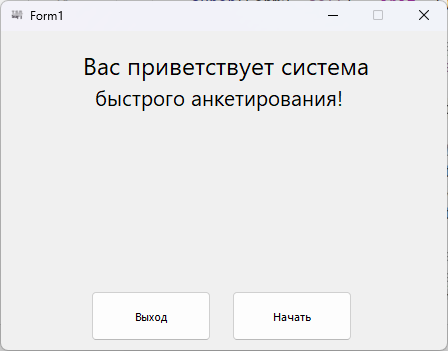
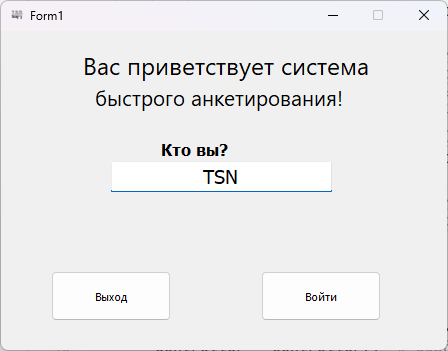
update

diff --git a/Main.py b/Main.py
@@ -25,10 +25,8 @@ class Form1(QtWidgets.QMainWindow):
     # Метод-обработчик для перехода на следующую форму
     def next(self):
         global data_forms  # Указываем, что переменная "data_forms" глобальная
-
-        # Запоминаем в глобальной переменной значение из метки "label_welcome_2"
-        data_forms = QtGui.QTextDocument(self.label_welcome_2.text()).toPlainText()
-
+        # Запоминаем в глобальной переменной значение из поля ввода
+        data_forms = QtGui.QTextDocument(self.lineEdit.text()).toPlainText()
         self.signal_emit.emit('form2show')  # Посылаем сигнал
 
 
